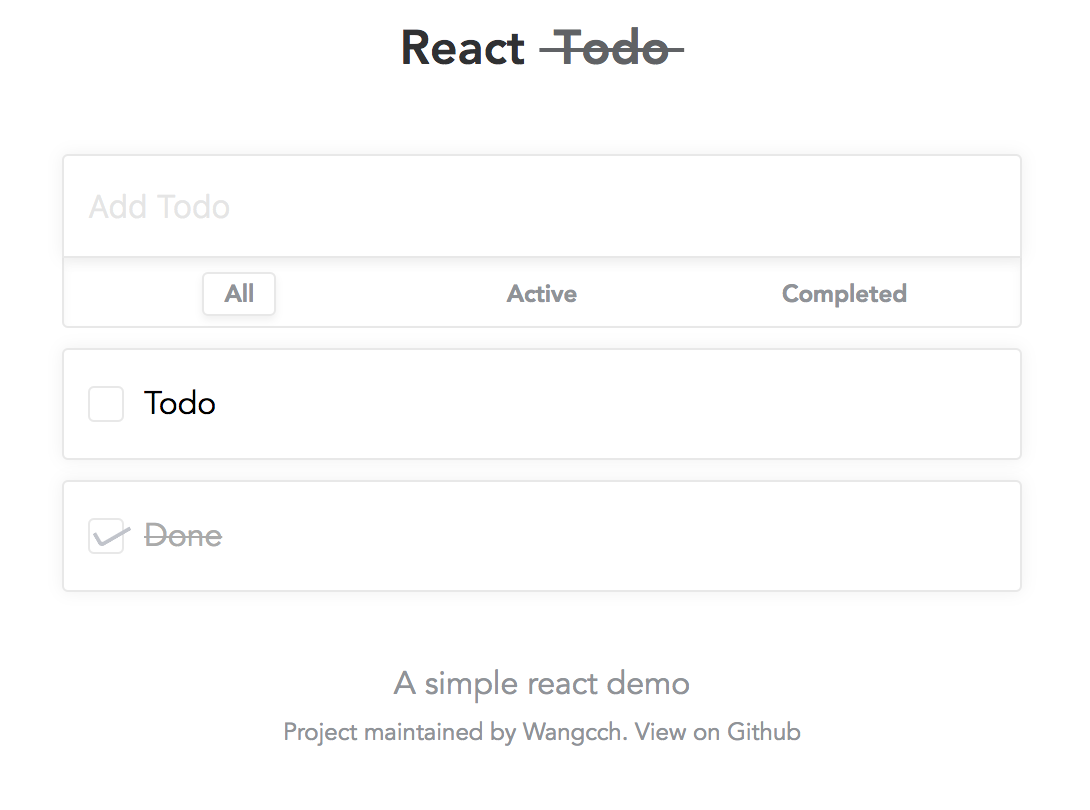
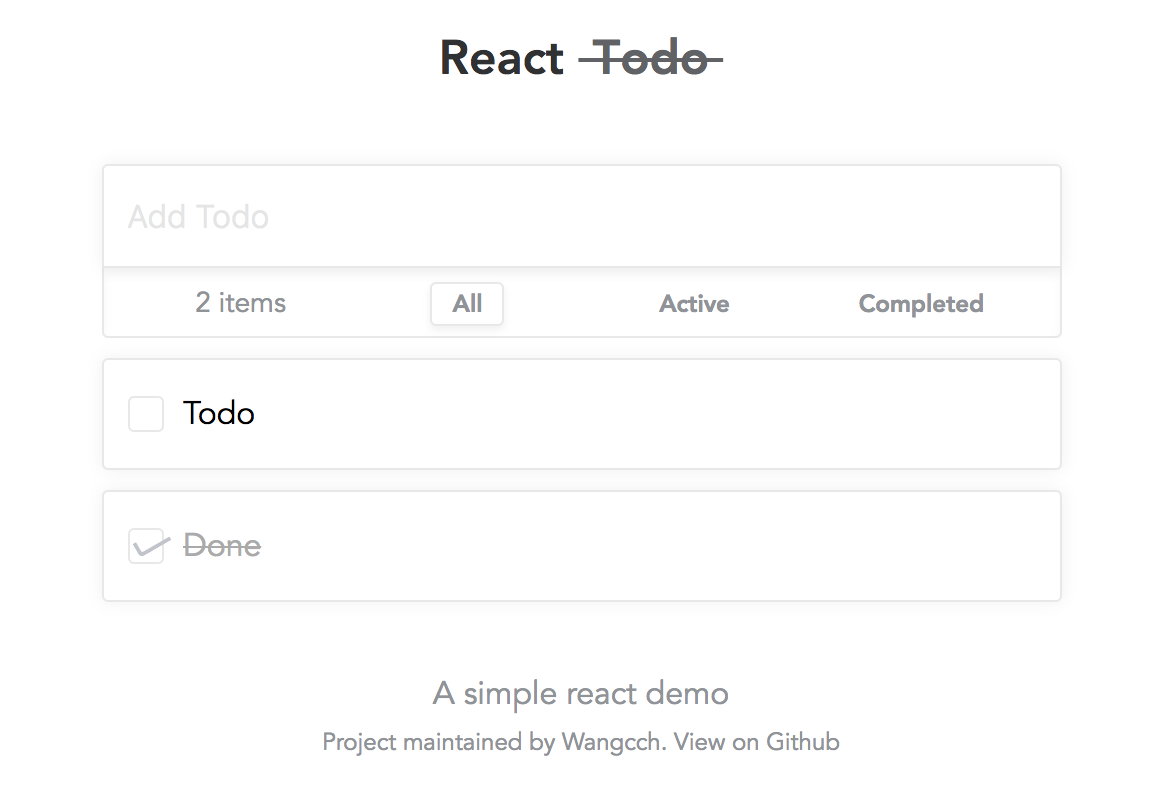
update(filter): total items

diff --git a/src/todo.js b/src/todo.js
@@ -134,14 +134,14 @@ class Todo extends Component {
       );
     }
 
-    const filterLIst = ['all', 'active', 'completed']
+    const filterList = ['all', 'active', 'completed']
 
     return (
       <div className="todo">
         <div className="inputBox">
           <input className="todo-input todo-item" placeholder="Add Todo" autoFocus onKeyPress={this.inputEnter} />
         </div>
-        <TodoFilter data={filterLIst} onSelect={this.filterChange.bind(this)} active={this.state.filter} />
+        <TodoFilter data={filterList} onSelect={this.filterChange.bind(this)} active={this.state.filter} total={this.state.todoListsSave.length} />
         <TodoList list={this.state.todoLists} />
       </div>
     );

diff --git a/src/todo.css b/src/todo.css
@@ -96,6 +96,7 @@
   display: flex;
   justify-content: center;
   align-items: center;
+  color: #909399;
 }
 
 .todo-filter .li {
@@ -106,7 +107,7 @@
 .todo-filter .li .radio-name {
   padding: 2px 10px;
   font-size: 12px;
-  color: #909399;
+  color: inherit;
   font-weight: bold;
   cursor: pointer;
   text-transform: capitalize;
@@ -116,6 +117,11 @@
   border: 1px solid #e8e8e8;
   border-radius: 3px;
   box-shadow: 0 2px 5px rgba(0, 0, 0, 0.06);
+}
+
+.todo-filter .li .item-num {
+  color: inherit;
+  font-size: 14px;
 }
 
 .todo-input::placeholder {

diff --git a/src/todoFilter.js b/src/todoFilter.js
@@ -7,9 +7,10 @@ class TodoFilter extends Component {
   }
 
   render() {
-    let { data, active } = this.props;
+    let { data, active, total } = this.props;
     return (
       <div className="todo-item todo-filter">
+        <div className="li"><span className="item-num">{total} items</span></div>
         {data.map((item, index) =>
           <label key={item + index} className="li">
             <input type="radio" name="filter" id={item} value={item} hidden checked={active === item ? true : false} onChange={this.filterChange} />
